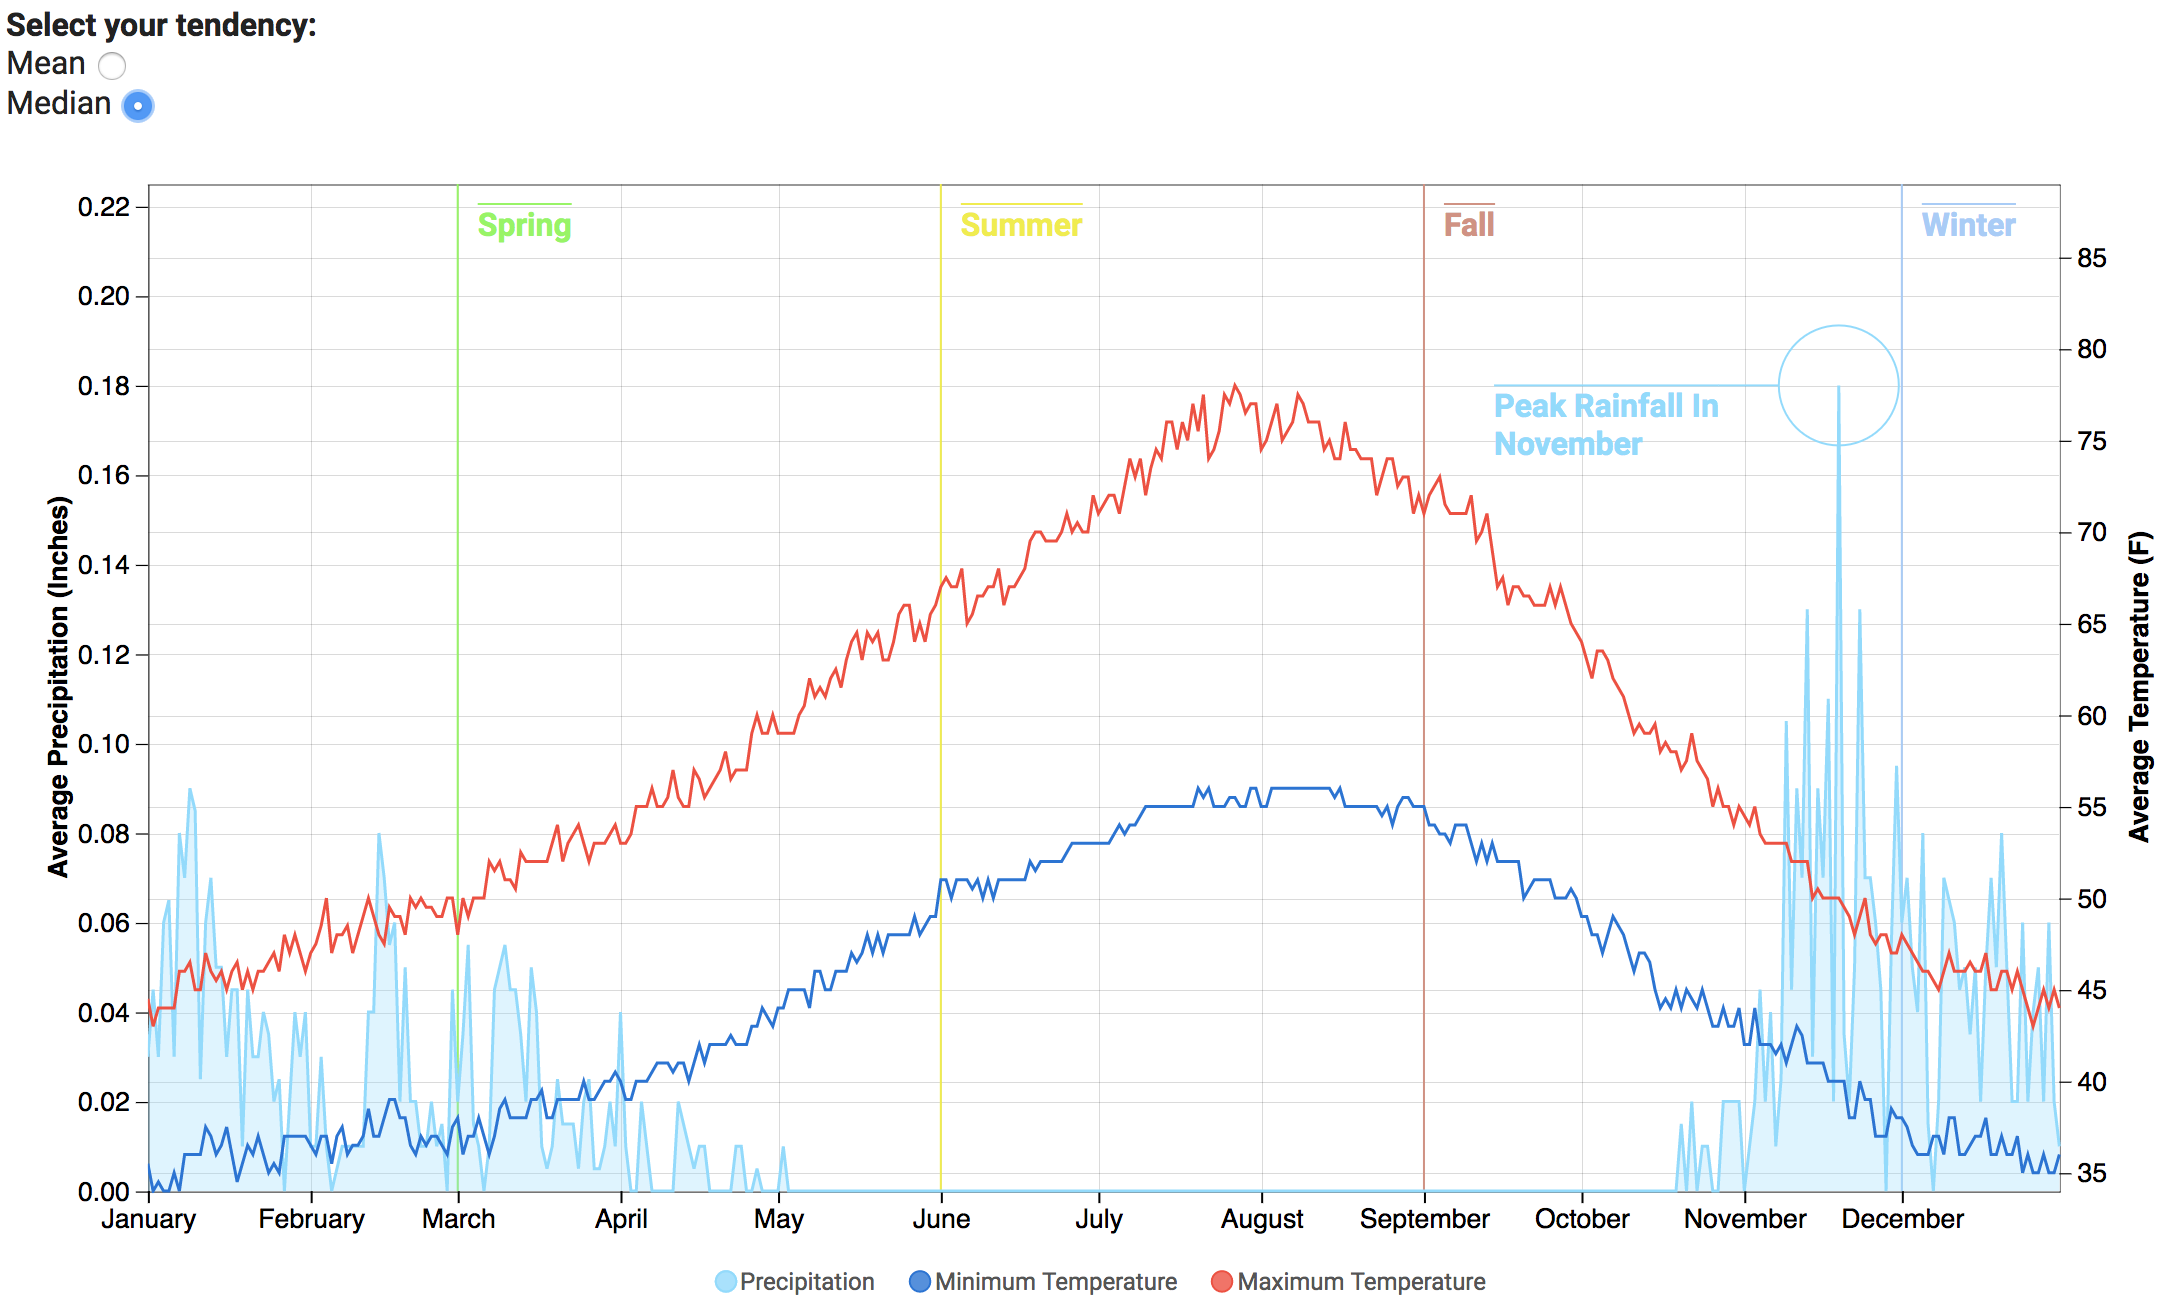
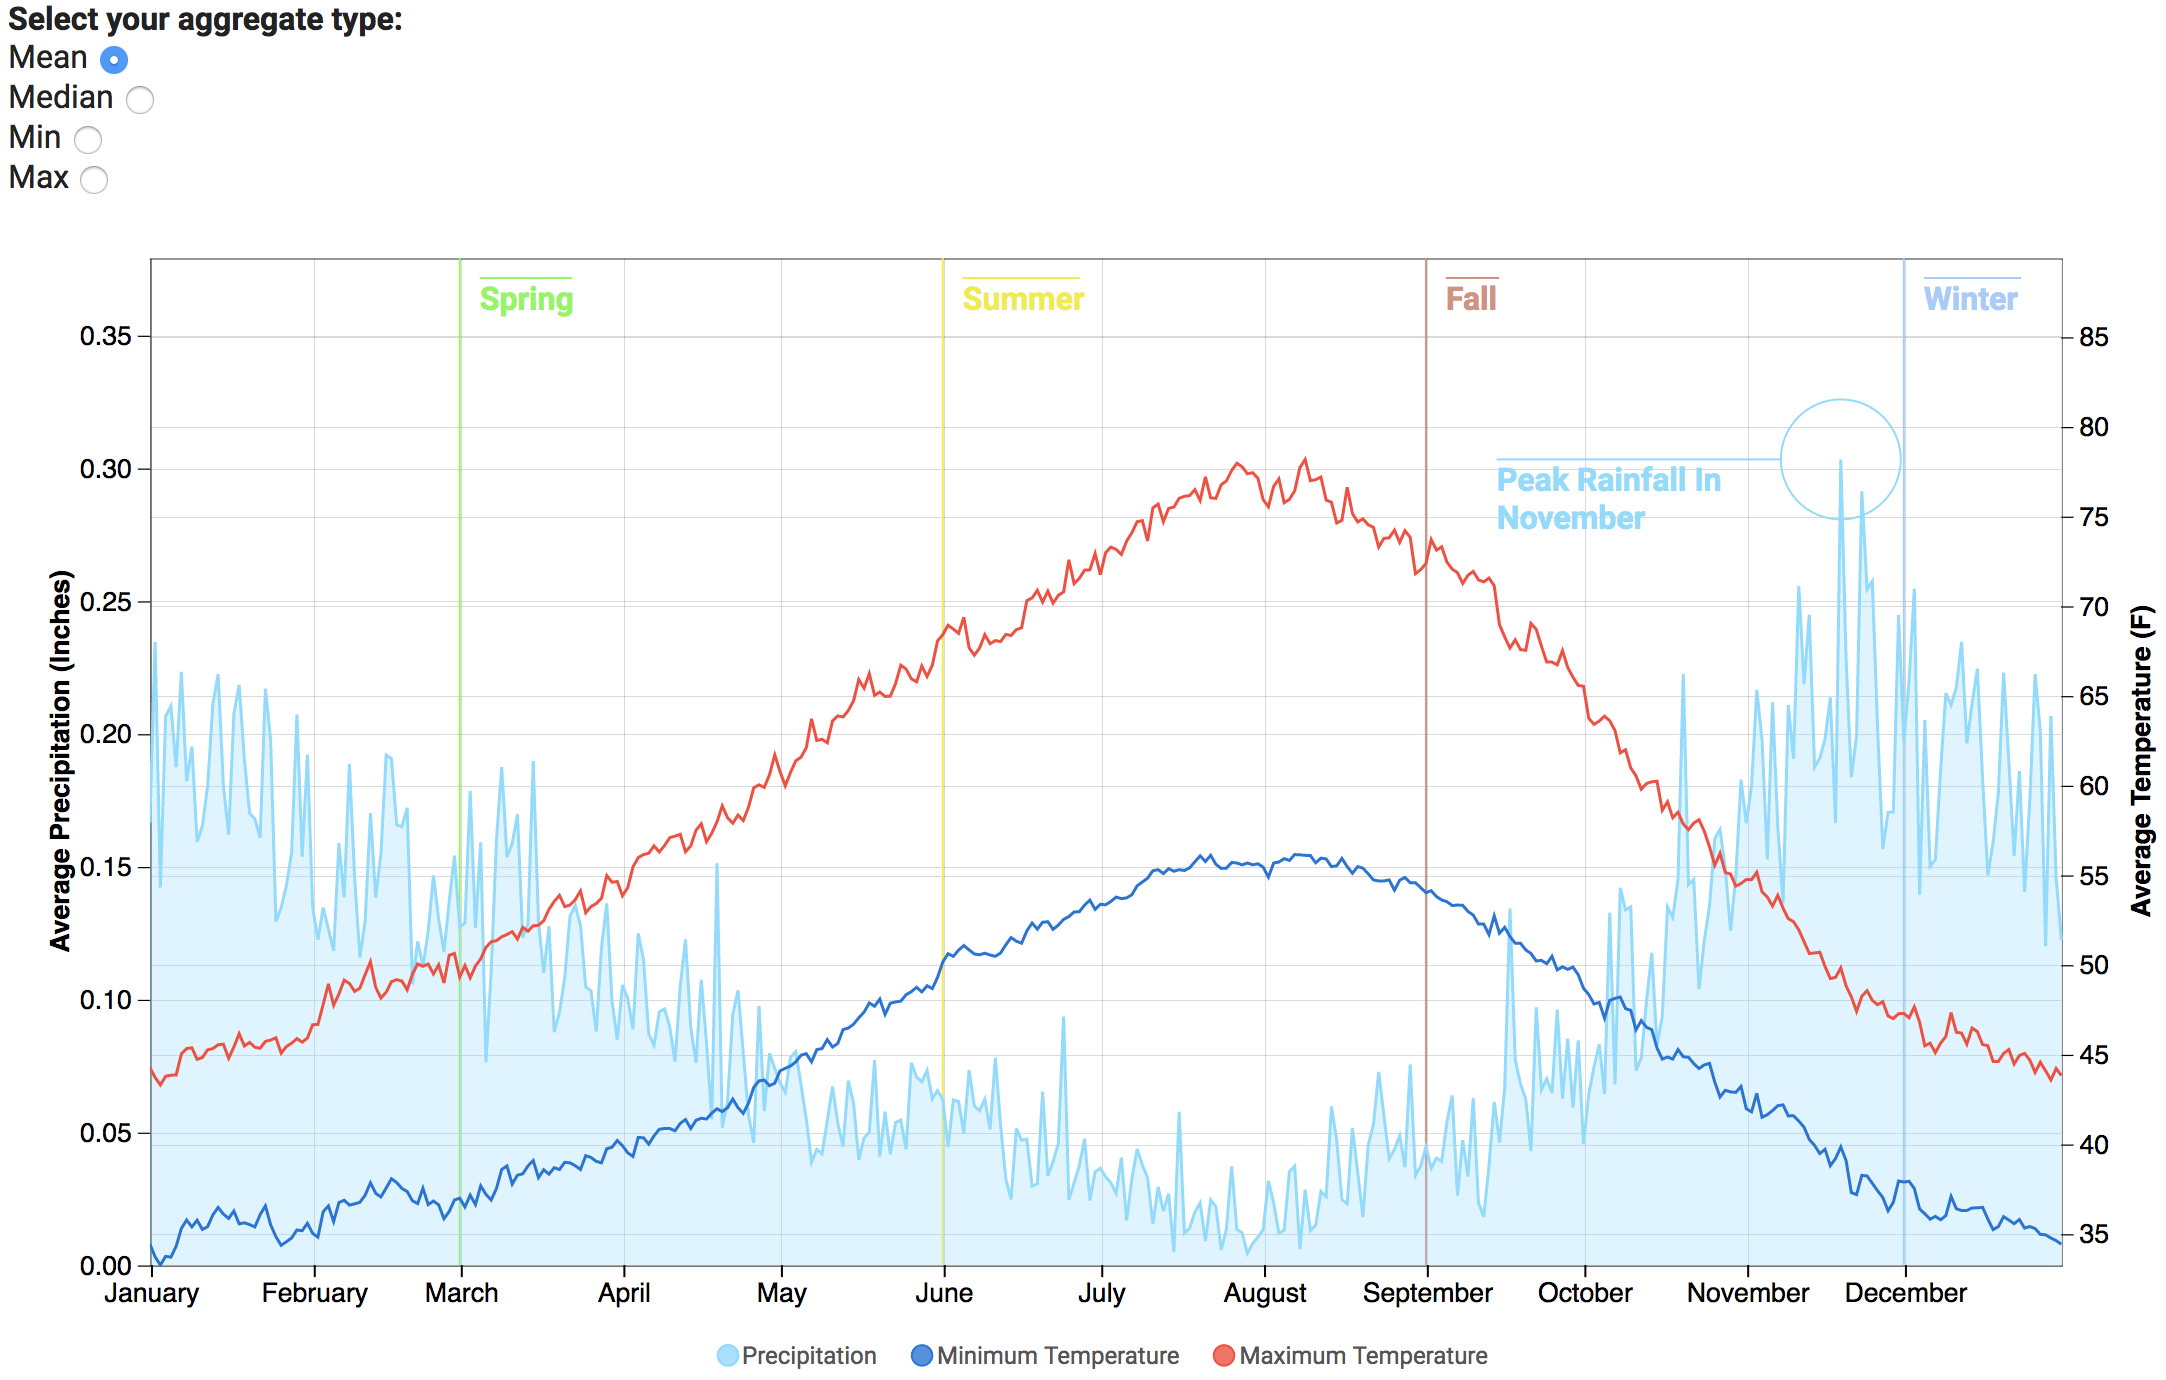
changed tendency filter to aggregate filter

diff --git a/src/demo_vue_d2b/App.vue b/src/demo_vue_d2b/App.vue
@@ -1,13 +1,19 @@
 <template>
   <div id="app">
 
-    <b>Select your tendency:</b>
+    <b>Select your aggregate type:</b>
     <br>
     <label for="mean">Mean</label>
-    <input type="radio" id="mean" name="tendency" value="mean" v-model="tendency"/>
+    <input type="radio" id="mean" name="aggregate" value="mean" v-model="aggregate"/>
     <br>
     <label for="median">Median</label>
-    <input type="radio" id="median" name="tendency" value="median" v-model="tendency"/>
+    <input type="radio" id="median" name="aggregate" value="median" v-model="aggregate"/>
+    <br>
+    <label for="min">Min</label>
+    <input type="radio" id="min" name="aggregate" value="min" v-model="aggregate"/>
+    <br>
+    <label for="max">Max</label>
+    <input type="radio" id="max" name="aggregate" value="max" v-model="aggregate"/>
 
     <chart-axis
       v-if="data"
@@ -21,17 +27,19 @@
 </template>
 
 <script>
-  import { select, csv, scaleTime, extent, nest, mean, median, format, axisBottom, timeFormat } from 'd3'
+  import { select, csv, scaleTime, extent, nest, mean, median, min, max, format, axisBottom, timeFormat } from 'd3'
   import { svgLine, svgArea } from 'd2b'
   import { annotationCalloutCircle, annotationXYThreshold } from 'd3-svg-annotation'
-  import { max } from 'underscore'
+  import { max as maxBy } from 'underscore'
   import { ChartAxis } from 'vue-d2b'
+
+  const aggregate = { mean, median, min, max }
 
   export default {
     data () {
       return {
         data: null,
-        tendency: 'mean',
+        aggregate: 'mean',
         chartConfig (chart) {
           const monthFormat = timeFormat('%B'),
                 dayFormat = timeFormat('%B %d')
@@ -71,10 +79,6 @@
     },
 
     computed: {
-      tendencyMethod () {
-        return this.tendency === 'median' ? median : mean
-      },
-
       // compute daily mean precip and temperatures values
       dailyData () {
         return nest()
@@ -83,9 +87,9 @@
           .map(d => {
             return {
               date: new Date(`2017-${d.key}`),
-              precipitation: this.tendencyMethod(d.values, v => parseFloat(v.PRCP)),
-              tempMin: this.tendencyMethod(d.values, v => parseFloat(v.TMIN)),
-              tempMax: this.tendencyMethod(d.values, v => parseFloat(v.TMAX))
+              precipitation: aggregate[this.aggregate](d.values, v => parseFloat(v.PRCP)),
+              tempMin: aggregate[this.aggregate](d.values, v => parseFloat(v.TMIN)),
+              tempMax: aggregate[this.aggregate](d.values, v => parseFloat(v.TMAX))
             }
           })
       },
@@ -95,7 +99,7 @@
         const numberFormat = format('.2'),
               tempFormat = d => `${numberFormat(d)} F`,
               precipFormat = d => `${numberFormat(d)} Inches`,
-              maxPrecipitation = max(this.dailyData, d => d.precipitation)
+              maxPrecipitation = maxBy(this.dailyData, d => d.precipitation)
 
         return {
           annotations: [

diff --git a/README.md b/README.md
@@ -485,7 +485,7 @@ First let's import the callout d3-annotation's `annotationCalloutCircle` type an
 ```javascript
 ...
 import { annotationCalloutCircle } from 'd3-svg-annotation'
-import { max } from 'underscore'
+import { max as maxBy } from 'underscore'
 ...
 ```
 
@@ -497,7 +497,7 @@ function getChartData (data) {
   const numberFormat = format('.2'),
         tempFormat = d => `${numberFormat(d)} F`,
         precipFormat = d => `${numberFormat(d)} Inches`,
-        maxPrecipitation = max(data, d => d.precipitation)
+        maxPrecipitation = maxBy(data, d => d.precipitation)
   ...
   {
     label: 'Precipitation',
@@ -622,7 +622,7 @@ Just like before we will need to import modules to our vue App component. Within
   import { select, csv, scaleTime, extent, nest, mean, format, axisBottom, timeFormat } from 'd3'
   import { svgLine, svgArea } from 'd2b'
   import { annotationCalloutCircle, annotationXYThreshold } from 'd3-svg-annotation'
-  import { max } from 'underscore'
+  import { max as maxBy } from 'underscore'
   import { ChartAxis } from 'vue-d2b'
 
   export default {
@@ -700,7 +700,7 @@ export default {
       const numberFormat = format('.2'),
             tempFormat = d => `${numberFormat(d)} F`,
             precipFormat = d => `${numberFormat(d)} Inches`,
-            maxPrecipitation = max(this.dailyData, d => d.precipitation)
+            maxPrecipitation = maxBy(this.dailyData, d => d.precipitation)
 
       return {
         annotations: [
@@ -922,20 +922,26 @@ Not much to this step, just copy over our axis chart configuration into a functi
 Now our chart should look nearly identical to the version done without Vue.js. Notice that we didn't have to setup any responsive functionality because that is all handled internally as long as the `<div>` dimensions are setup with SCSS. See `srce/index/styles.scss` to see which styles the `.chart` class has.
 
 ### 4.7 Adding Some Reactive Functionality: App.vue
-To demonstrate how everything is reactive in this example with Vue let's add a new feature. We can allow the user to pick the tendency type to use when aggregating the dailyData either `mean` or `median`. Here is what is necessary to make this work:
+To demonstrate how everything is reactive in this example with Vue let's add a new feature. We can allow the user to pick the aggregate type to use when computing the dailyData either `mean`, `median`, `max`, or `min`. Here is what is necessary to make this work:
 
 ```html
 <template>
   <div id="app">
 
     <!-- add a radio button form for the user to select the tendency type, bind it to the tendency data attribute -->
-    <b>Select your tendency:</b>
+    <b>Select your aggregate type:</b>
     <br>
     <label for="mean">Mean</label>
-    <input type="radio" id="mean" name="tendency" value="mean" v-model="tendency"/>
+    <input type="radio" id="mean" name="aggregate" value="mean" v-model="aggregate"/>
     <br>
     <label for="median">Median</label>
-    <input type="radio" id="median" name="tendency" value="median" v-model="tendency"/>
+    <input type="radio" id="median" name="aggregate" value="median" v-model="aggregate"/>
+    <br>
+    <label for="min">Min</label>
+    <input type="radio" id="min" name="aggregate" value="min" v-model="aggregate"/>
+    <br>
+    <label for="max">Max</label>
+    <input type="radio" id="max" name="aggregate" value="max" v-model="aggregate"/>
 
     <chart-axis
       v-if="data"
@@ -950,25 +956,23 @@ To demonstrate how everything is reactive in this example with Vue let's add a n
 
 <script>
   // add the median module to our d3 import
-  import { select, csv, scaleTime, extent, nest, mean, median, format, axisBottom, timeFormat } from 'd3'
+  import { select, csv, scaleTime, extent, nest, mean, median, min, max, format, axisBottom, timeFormat } from 'd3'
 
   ...
 
+  // store all aggregate methods in an object, so that they are retrievable by aggregate[type]
+  const aggregate = { mean, median, min, max }
+
   export default {
     data () {
-      // add the tendency data that will be bound to the radio button form and default it to 'mean'
-      tendency: 'mean',
+      // add the aggregate data that will be bound to the radio button form and default it to 'mean'
+      aggregate: 'mean',
 
       ...
     },
 
     computed: {
-      // compute which d3 module should be used based on the user's tendency selection
-      tendencyMethod () {
-        return this.tendency === 'median' ? median : mean
-      },
-
-      // then use the tendencyMethod computed property when computing the dailyData instead of mean
+      // then use the aggregate type when computing the dailyData instead of mean
       dailyData () {
         return nest()
           .key(d => d.date)
@@ -976,9 +980,9 @@ To demonstrate how everything is reactive in this example with Vue let's add a n
           .map(d => {
             return {
               date: new Date(`2017-${d.key}`),
-              precipitation: this.tendencyMethod(d.values, v => parseFloat(v.PRCP)),
-              tempMin: this.tendencyMethod(d.values, v => parseFloat(v.TMIN)),
-              tempMax: this.tendencyMethod(d.values, v => parseFloat(v.TMAX))
+              precipitation: aggregate[this.aggregate](d.values, v => parseFloat(v.PRCP)),
+              tempMin: aggregate[this.aggregate](d.values, v => parseFloat(v.TMIN)),
+              tempMax: aggregate[this.aggregate](d.values, v => parseFloat(v.TMAX))
             }
           })
       },
